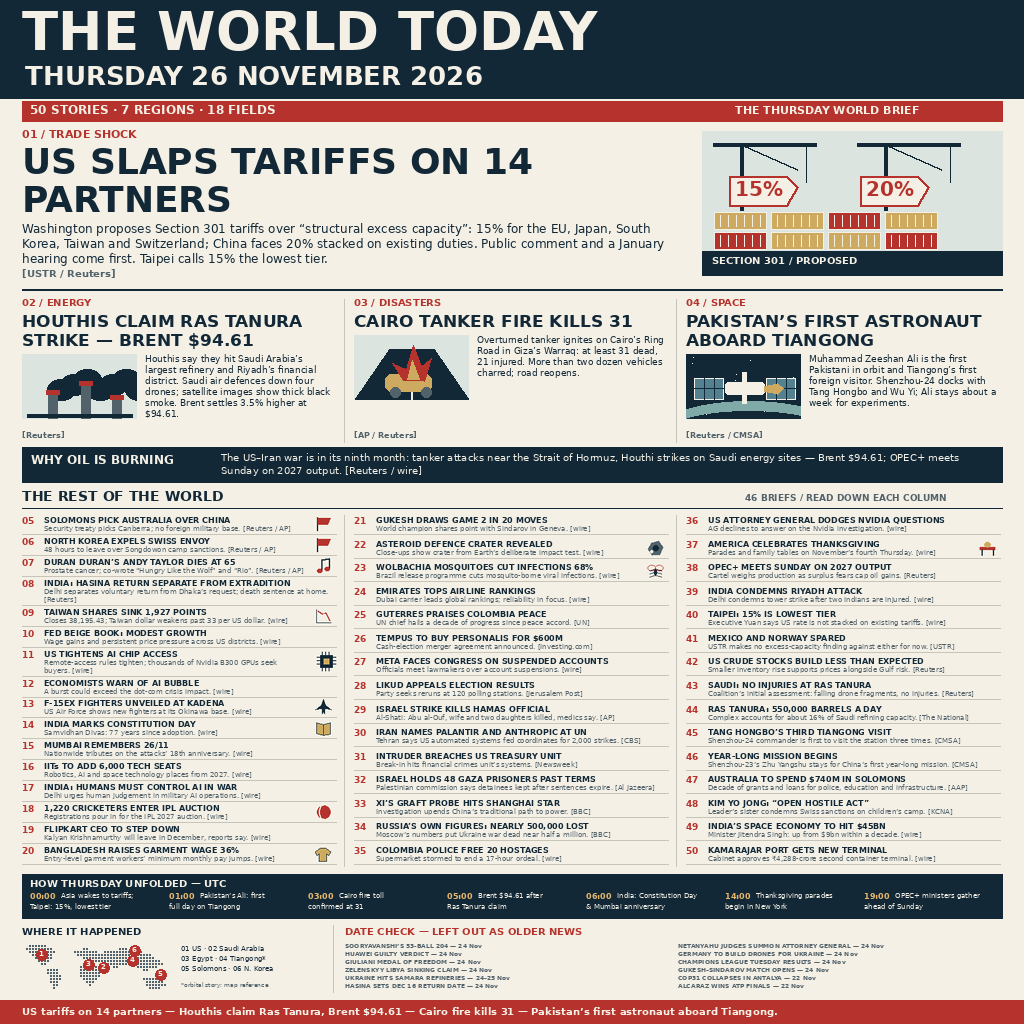
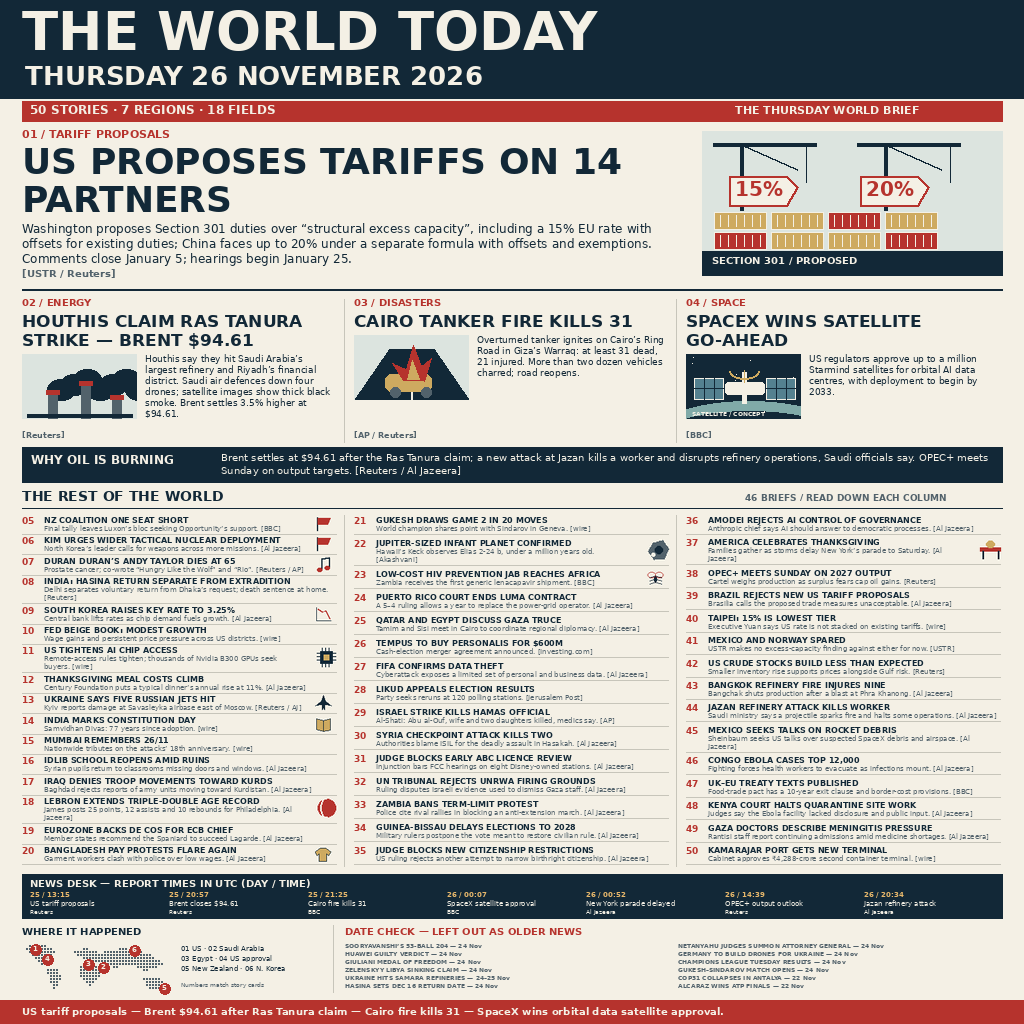
Replace out-of-window news and regenerate verified poster

diff --git a/draw_poster.py b/draw_poster.py
@@ -31,58 +31,58 @@ def font(size, bold=False):
 # Region taxonomy: Americas, Europe, Africa, Middle East, South Asia,
 # East Asia, Oceania. Eighteen editorial fields are assigned explicitly.
 briefs = [
-('SOLOMONS PICK AUSTRALIA OVER CHINA','Security treaty picks Canberra; no foreign military base.','Reuters / AP','Oceania','Diplomacy','flag'),
-('NORTH KOREA EXPELS SWISS ENVOY','48 hours to leave over Songdowon camp sanctions.','Reuters / AP','East Asia','Diplomacy','flag'),
+('NZ COALITION ONE SEAT SHORT','Final tally leaves Luxon’s bloc seeking Opportunity’s support.','BBC','Oceania','Politics','flag'),
+('KIM URGES WIDER TACTICAL NUCLEAR DEPLOYMENT','North Korea’s leader calls for weapons across more missions.','Al Jazeera','East Asia','Defence','flag'),
 ("DURAN DURAN’S ANDY TAYLOR DIES AT 65",'Prostate cancer; co-wrote “Hungry Like the Wolf” and “Rio”.','Reuters / AP','Europe','Culture','music'),
 ('INDIA: HASINA RETURN SEPARATE FROM EXTRADITION','Delhi separates voluntary return from Dhaka’s request; death sentence at home.','Reuters','South Asia','Diplomacy',None),
-('TAIWAN SHARES SINK 1,927 POINTS','Closes 38,195.43; Taiwan dollar weakens past 33 per US dollar.','wire','East Asia','Markets','chart'),
+('SOUTH KOREA RAISES KEY RATE TO 3.25%','Central bank lifts rates as chip demand fuels growth.','Al Jazeera','East Asia','Markets','chart'),
 ('FED BEIGE BOOK: MODEST GROWTH','Wage gains and persistent price pressure across US districts.','wire','Americas','Economy',None),
 ('US TIGHTENS AI CHIP ACCESS','Remote-access rules tighten; thousands of Nvidia B300 GPUs seek buyers.','wire','Americas','Technology','chip'),
-('ECONOMISTS WARN OF AI BUBBLE','A burst could exceed the dot-com crisis impact.','wire','Americas','Economy',None),
-('F-15EX FIGHTERS UNVEILED AT KADENA','US Air Force shows new fighters at its Okinawa base.','wire','East Asia','Defence','plane'),
+('THANKSGIVING MEAL COSTS CLIMB','Century Foundation puts a typical dinner’s annual rise at 11%.','Al Jazeera','Americas','Economy',None),
+('UKRAINE SAYS FIVE RUSSIAN JETS HIT','Kyiv reports damage at Savasleyka airbase east of Moscow.','Reuters / AJ','Europe','Defence','plane'),
 ('INDIA MARKS CONSTITUTION DAY','Samvidhan Divas: 77 years since adoption.','wire','South Asia','Politics','book'),
 ('MUMBAI REMEMBERS 26/11','Nationwide tributes on the attacks’ 18th anniversary.','wire','South Asia','Culture',None),
-('IITs TO ADD 6,000 TECH SEATS','Robotics, AI and space technology places from 2027.','wire','South Asia','Education',None),
-('INDIA: HUMANS MUST CONTROL AI IN WAR','Delhi urges human judgement in military AI operations.','wire','South Asia','Defence',None),
-('1,220 CRICKETERS ENTER IPL AUCTION','Registrations pour in for the IPL 2027 auction.','wire','South Asia','Sport','ball'),
-('FLIPKART CEO TO STEP DOWN','Kalyan Krishnamurthy will leave in December, reports say.','wire','South Asia','Business',None),
-('BANGLADESH RAISES GARMENT WAGE 36%','Entry-level garment workers’ minimum monthly pay jumps.','wire','South Asia','Labour','shirt'),
+('IDLIB SCHOOL REOPENS AMID RUINS','Syrian pupils return to classrooms missing doors and windows.','Al Jazeera','Middle East','Education',None),
+('IRAQ DENIES TROOP MOVEMENTS TOWARD KURDS','Baghdad rejects reports of army units moving toward Kurdistan.','Al Jazeera','Middle East','Defence',None),
+('LEBRON EXTENDS TRIPLE-DOUBLE AGE RECORD','James posts 25 points, 12 assists and 10 rebounds for Philadelphia.','Al Jazeera','Americas','Sport','ball'),
+('EUROZONE BACKS DE COS FOR ECB CHIEF','Member states recommend the Spaniard to succeed Lagarde.','Al Jazeera','Europe','Economy',None),
+('BANGLADESH PAY PROTESTS FLARE AGAIN','Garment workers clash with police over low wages.','Al Jazeera','South Asia','Labour','shirt'),
 ('GUKESH DRAWS GAME 2 IN 20 MOVES','World champion shares point with Sindarov in Geneva.','wire','Europe','Sport',None),
-('ASTEROID DEFENCE CRATER REVEALED','Close-ups show crater from Earth’s deliberate impact test.','wire','Americas','Science','asteroid'),
-('WOLBACHIA MOSQUITOES CUT INFECTIONS 68%','Brazil release programme cuts mosquito-borne viral infections.','wire','Americas','Health','mosquito'),
-('EMIRATES TOPS AIRLINE RANKINGS','Dubai carrier leads global rankings; reliability in focus.','wire','Middle East','Business',None),
-('GUTERRES PRAISES COLOMBIA PEACE','UN chief hails a decade of progress since peace accord.','UN','Americas','Diplomacy',None),
+('JUPITER-SIZED INFANT PLANET CONFIRMED','Hawaii’s Keck observes Elias 2-24 b, under a million years old.','Akashvani','Americas','Science','asteroid'),
+('LOW-COST HIV PREVENTION JAB REACHES AFRICA','Zambia receives the first generic lenacapavir shipment.','BBC','Africa','Health','mosquito'),
+('PUERTO RICO COURT ENDS LUMA CONTRACT','A 5–4 ruling allows a year to replace the power-grid operator.','Al Jazeera','Americas','Business',None),
+('QATAR AND EGYPT DISCUSS GAZA TRUCE','Tamim and Sisi meet in Cairo to coordinate regional diplomacy.','Al Jazeera','Middle East','Diplomacy',None),
 ('TEMPUS TO BUY PERSONALIS FOR $600M','Cash-election merger agreement announced.','Investing.com','Americas','Business',None),
-('META FACES CONGRESS ON SUSPENDED ACCOUNTS','Officials meet lawmakers over account suspensions.','wire','Americas','Technology',None),
+('FIFA CONFIRMS DATA THEFT','Cyberattack exposes a limited set of personal and business data.','Al Jazeera','Europe','Technology',None),
 ('LIKUD APPEALS ELECTION RESULTS','Party seeks reruns at 120 polling stations.','Jerusalem Post','Middle East','Politics',None),
 ('ISRAEL STRIKE KILLS HAMAS OFFICIAL','Al-Shati: Abu al-Ouf, wife and two daughters killed, medics say.','AP','Middle East','Security',None),
-('IRAN NAMES PALANTIR AND ANTHROPIC AT UN','Tehran says US automated systems fed coordinates for 2,000 strikes.','CBS','Middle East','Security',None),
-('INTRUDER BREACHES US TREASURY UNIT','Break-in hits financial crimes unit’s systems.','Newsweek','Americas','Security',None),
-('ISRAEL HOLDS 48 GAZA PRISONERS PAST TERMS','Palestinian commission says detainees kept after sentences expire.','Al Jazeera','Middle East','Security',None),
-('XI’S GRAFT PROBE HITS SHANGHAI STAR','Investigation upends China’s traditional path to power.','BBC','East Asia','Politics',None),
-('RUSSIA’S OWN FIGURES: NEARLY 500,000 LOST','Moscow’s numbers put Ukraine war dead near half a million.','BBC','Europe','Security',None),
-('COLOMBIA POLICE FREE 20 HOSTAGES','Supermarket stormed to end a 17-hour ordeal.','wire','Americas','Security',None),
-('US ATTORNEY GENERAL DODGES NVIDIA QUESTIONS','AG declines to answer on the Nvidia investigation.','wire','Americas','Politics',None),
-('AMERICA CELEBRATES THANKSGIVING','Parades and family tables on November’s fourth Thursday.','wire','Americas','Culture','table'),
+('SYRIA CHECKPOINT ATTACK KILLS TWO','Authorities blame ISIL for the deadly assault in Hasakah.','Al Jazeera','Middle East','Security',None),
+('JUDGE BLOCKS EARLY ABC LICENCE REVIEW','Injunction bars FCC hearings on eight Disney-owned stations.','Al Jazeera','Americas','Politics',None),
+('UN TRIBUNAL REJECTS UNRWA FIRING GROUNDS','Ruling disputes Israeli evidence used to dismiss Gaza staff.','Al Jazeera','Middle East','Security',None),
+('ZAMBIA BANS TERM-LIMIT PROTEST','Police cite rival rallies in blocking an anti-extension march.','Al Jazeera','Africa','Politics',None),
+('GUINEA-BISSAU DELAYS ELECTIONS TO 2028','Military rulers postpone the vote meant to restore civilian rule.','Al Jazeera','Africa','Politics',None),
+('JUDGE BLOCKS NEW CITIZENSHIP RESTRICTIONS','US ruling rejects another attempt to narrow birthright citizenship.','Al Jazeera','Americas','Politics',None),
+('AMODEI REJECTS AI CONTROL OF GOVERNANCE','Anthropic chief says AI should answer to democratic processes.','Al Jazeera','Americas','Technology',None),
+('AMERICA CELEBRATES THANKSGIVING','Families gather as storms delay New York’s parade to Saturday.','Al Jazeera','Americas','Culture','table'),
 ('OPEC+ MEETS SUNDAY ON 2027 OUTPUT','Cartel weighs production as surplus fears cap oil gains.','Reuters','Middle East','Energy',None),
-('INDIA CONDEMNS RIYADH ATTACK','Delhi condemns tower strike after two Indians are injured.','wire','South Asia','Diplomacy',None),
+('BRAZIL REJECTS NEW US TARIFF PROPOSALS','Brasilia calls the proposed trade measures unacceptable.','Al Jazeera','Americas','Trade',None),
 ('TAIPEI: 15% IS LOWEST TIER','Executive Yuan says US rate is not stacked on existing tariffs.','wire','East Asia','Trade',None),
 ('MEXICO AND NORWAY SPARED','USTR makes no excess-capacity finding against either for now.','USTR','Americas','Trade',None),
 ('US CRUDE STOCKS BUILD LESS THAN EXPECTED','Smaller inventory rise supports prices alongside Gulf risk.','Reuters','Americas','Energy',None),
-('SAUDI: NO INJURIES AT RAS TANURA','Coalition’s initial assessment: falling drone fragments, no injuries.','Reuters','Middle East','Energy',None),
-('RAS TANURA: 550,000 BARRELS A DAY','Complex accounts for about 16% of Saudi refining capacity.','The National','Middle East','Energy',None),
-('TANG HONGBO’S THIRD TIANGONG VISIT','Shenzhou-24 commander is first to visit the station three times.','CMSA','East Asia','Space',None),
-('YEAR-LONG MISSION BEGINS','Shenzhou-23’s Zhu Yangshu stays for China’s first year-long mission.','CMSA','East Asia','Space',None),
-('AUSTRALIA TO SPEND $740M IN SOLOMONS','Decade of grants and loans for police, education and infrastructure.','AAP','Oceania','Diplomacy',None),
-('KIM YO JONG: “OPEN HOSTILE ACT”','Leader’s sister condemns Swiss sanctions on children’s camp.','KCNA','East Asia','Diplomacy',None),
-('INDIA’S SPACE ECONOMY TO HIT $45BN','Minister Jitendra Singh: up from $9bn within a decade.','wire','South Asia','Space',None),
+('BANGKOK REFINERY FIRE INJURES NINE','Bangchak shuts production after a blast at Phra Khanong.','Al Jazeera','East Asia','Energy',None),
+('JAZAN REFINERY ATTACK KILLS WORKER','Saudi ministry says a projectile sparks fire and halts some operations.','Al Jazeera','Middle East','Energy',None),
+('MEXICO SEEKS TALKS ON ROCKET DEBRIS','Sheinbaum seeks US talks over suspected SpaceX debris and airspace.','Al Jazeera','Americas','Space',None),
+('CONGO EBOLA CASES TOP 12,000','Fighting forces health workers to evacuate as infections mount.','Al Jazeera','Africa','Health',None),
+('UK–EU TREATY TEXTS PUBLISHED','Food-trade pact has a 10-year exit clause and border-cost provisions.','BBC','Europe','Diplomacy',None),
+('KENYA COURT HALTS QUARANTINE SITE WORK','Judges say the Ebola facility lacked disclosure and public input.','Al Jazeera','Africa','Politics',None),
+('GAZA DOCTORS DESCRIBE MENINGITIS PRESSURE','Rantisi staff report continuing admissions amid medicine shortages.','Al Jazeera','Middle East','Health',None),
 ('KAMARAJAR PORT GETS NEW TERMINAL','Cabinet approves ₹4,288-crore second container terminal.','wire','South Asia','Business',None),
 ]
 leads = [
-('US SLAPS TARIFFS ON 14 PARTNERS','Washington proposes Section 301 tariffs over “structural excess capacity”: 15% for the EU, Japan, South Korea, Taiwan and Switzerland; China faces 20% stacked on existing duties. Public comment and a January hearing come first. Taipei calls 15% the lowest tier.','USTR / Reuters','Americas','Trade'),
+('US PROPOSES TARIFFS ON 14 PARTNERS','Washington proposes Section 301 duties over “structural excess capacity”, including a 15% EU rate with offsets for existing duties; China faces up to 20% under a separate formula with offsets and exemptions. Comments close January 5; hearings begin January 25.','USTR / Reuters','Americas','Trade'),
 ('HOUTHIS CLAIM RAS TANURA STRIKE — BRENT $94.61','Houthis say they hit Saudi Arabia’s largest refinery and Riyadh’s financial district. Saudi air defences down four drones; satellite images show thick black smoke. Brent settles 3.5% higher at $94.61.','Reuters','Middle East','Energy'),
 ('CAIRO TANKER FIRE KILLS 31','Overturned tanker ignites on Cairo’s Ring Road in Giza’s Warraq: at least 31 dead, 21 injured. More than two dozen vehicles charred; road reopens.','AP / Reuters','Africa','Disasters'),
-('PAKISTAN’S FIRST ASTRONAUT ABOARD TIANGONG','Muhammad Zeeshan Ali is the first Pakistani in orbit and Tiangong’s first foreign visitor. Shenzhou-24 docks with Tang Hongbo and Wu Yi; Ali stays about a week for experiments.','Reuters / CMSA','East Asia','Space'),
+('SPACEX WINS SATELLITE GO-AHEAD','US regulators approve up to a million Starmind satellites for orbital AI data centres, with deployment to begin by 2033.','BBC','Americas','Space'),
 ]
 assert len(briefs) == 46 and len(leads) + len(briefs) == 50
 regions = {s[3] for s in briefs + leads}
@@ -209,7 +209,7 @@ def fire(x,y,w,h):
     d.polygon([(x+49,y+45),(x+38,y+28),(x+52,y+34),(x+59,y+10),(x+67,y+31),(x+77,y+23),(x+70,y+46)],fill=RED)
     d.polygon([(x+53,y+44),(x+58,y+25),(x+65,y+44)],fill=GOLD)
 
-def station(x,y,w,h):
+def satellite(x,y,w,h):
     d.rectangle((x,y,x+w,y+h),fill=INK)
     for i in range(12):
         xx=x+((i*43+7)%w)
@@ -223,7 +223,9 @@ def station(x,y,w,h):
         line(xx,y+34,xx+29,y+34,INK)
     d.rounded_rectangle((x+39,y+28,x+78,y+40),3,fill=PAPER)
     line(x+58,y+18,x+58,y+49,PAPER,5)
-    d.polygon([(x+78,y+32),(x+91,y+29),(x+97,y+34),(x+91,y+40),(x+78,y+37)],fill=GOLD)
+    d.arc((x+43,y+8,x+73,y+25),0,180,fill=GOLD,width=2)
+    line(x+58,y+16,x+58,y+28,GOLD)
+    text(x+6,y+h-9,'SATELLITE / CONCEPT',6,True,PAPER)
 
 def bounded_art(painter, x, y, w, h, scale=None):
     global d
@@ -244,7 +246,7 @@ d.rectangle((22,101,1002,121),fill=RED)
 text(30,102,f'50 STORIES · {len(regions)} REGIONS · {len(fields)} FIELDS',12,True,PAPER)
 text(735,103,'THE THURSDAY WORLD BRIEF',11,True,PAPER)
 
-text(22,127,'01 / TRADE SHOCK',11,True,RED)
+text(22,127,'01 / TARIFF PROPOSALS',11,True,RED)
 paragraph(22,140,leads[0][0],36,654,True,leading=38)
 y=paragraph(22,221,leads[0][1],12,654,leading=15)
 text(22,y+1,'[USTR / Reuters]',10,True,MUTED)
@@ -252,7 +254,7 @@ port(702,131,300,144)
 line(22,289,1002,289,INK,2)
 
 # Three equal-width lead cards with compact silhouettes.
-for idx,(xx,art) in enumerate(((22,refinery),(354,fire),(686,station)),1):
+for idx,(xx,art) in enumerate(((22,refinery),(354,fire),(686,satellite)),1):
     s=leads[idx]
     text(xx,296,f'0{idx+1} / '+s[4].upper(),10,True,RED)
     end=paragraph(xx,311,s[0],17,313,True,leading=19)
@@ -265,7 +267,7 @@ for idx,(xx,art) in enumerate(((22,refinery),(354,fire),(686,station)),1):
 # Context band; it is explicitly outside the numbered story sequence.
 d.rectangle((22,447,1002,482),fill=INK)
 text(31,452,'WHY OIL IS BURNING',12,True,PAPER)
-paragraph(221,451,'The US–Iran war is in its ninth month: tanker attacks near the Strait of Hormuz, Houthi strikes on Saudi energy sites — Brent $94.61; OPEC+ meets Sunday on 2027 output. [Reuters / wire]',10,770,fill=PAPER,leading=13)
+paragraph(221,451,'Brent settles at $94.61 after the Ras Tanura claim; a new attack at Jazan kills a worker and disrupts refinery operations, Saudi officials say. OPEC+ meets Sunday on output targets. [Reuters / Al Jazeera]',10,770,fill=PAPER,leading=13)
 text(22,488,'THE REST OF THE WORLD',14,True,INK)
 text(745,492,'46 BRIEFS / READ DOWN EACH COLUMN',9,True,MUTED)
 line(22,508,1002,508,INK)
@@ -312,15 +314,15 @@ for xx in (344,676):
     line(xx,515,xx,866)
 assert max_bottom <= 866
 
-# Seven-point UTC desk timeline.
+# Seven timestamped reports; these are publication times, not event times.
 d.rectangle((22,874,1002,918),fill=INK)
-text(30,877,'HOW THURSDAY UNFOLDED — UTC',10,True,PAPER)
-timeline=[('00:00','Asia wakes to tariffs;','Taipei: 15%, lowest tier'),('01:00','Pakistan’s Ali: first','full day on Tiangong'),('03:00','Cairo fire toll','confirmed at 31'),('05:00','Brent $94.61 after','Ras Tanura claim'),('06:00','India: Constitution Day','& Mumbai anniversary'),('14:00','Thanksgiving parades','begin in New York'),('19:00','OPEC+ ministers gather','ahead of Sunday')]
+text(30,877,'NEWS DESK — REPORT TIMES IN UTC (DAY / TIME)',10,True,PAPER)
+timeline=[('25 / 13:15','US tariff proposals','Reuters'),('25 / 20:57','Brent closes $94.61','Reuters'),('25 / 21:25','Cairo fire kills 31','BBC'),('26 / 00:07','SpaceX satellite approval','BBC'),('26 / 00:52','New York parade delayed','Al Jazeera'),('26 / 14:39','OPEC+ output outlook','Reuters'),('26 / 20:34','Jazan refinery attack','Al Jazeera')]
 for i,(t,a,b) in enumerate(timeline):
     xx=30+i*139
-    text(xx,891,t,8,True,'#e6b76b')
-    text(xx+31,891,a,7,False,PAPER)
-    text(xx,902,b,7,False,PAPER)
+    text(xx,890,t,7,True,'#e6b76b')
+    text(xx,899,a,7,False,PAPER)
+    text(xx,908,b,6,False,PAPER)
 
 # Dotted map with numbered references to the actual numbered story cards.
 text(22,925,'WHERE IT HAPPENED',10,True)
@@ -337,13 +339,13 @@ for xx in range(0,147,3):
     for yy in range(0,49,3):
         if any(inside(xx,yy,p) for p in polys):
             d.ellipse((mapx+xx,mapy+yy,mapx+xx+1,mapy+yy+1),fill=MUTED)
-for px,py,num in [(18,12,'1'),(80,25,'2'),(65,22,'3'),(109,18,'4'),(137,32,'5'),(111,8,'6')]:
+for px,py,num in [(12,7,'1'),(80,25,'2'),(65,22,'3'),(24,17,'4'),(141,46,'5'),(111,8,'6')]:
     d.ellipse((mapx+px-5,mapy+py-5,mapx+px+6,mapy+py+6),fill=RED)
     text(mapx+px-2,mapy+py-5,num,7,True,PAPER)
 text(181,944,'01 US · 02 Saudi Arabia',7)
-text(181,954,'03 Egypt · 04 Tiangong*',7)
-text(181,964,'05 Solomons · 06 N. Korea',7)
-text(181,981,'*orbital story; map reference',6,False,MUTED)
+text(181,954,'03 Egypt · 04 US approval',7)
+text(181,964,'05 New Zealand · 06 N. Korea',7)
+text(181,981,'Numbers match story cards',6,False,MUTED)
 
 # All excluded-news dates are confined to this panel.
 line(333,925,333,992)
@@ -368,7 +370,7 @@ for i,item in enumerate(excluded):
     assert d.textlength(item,font=font(6,True))<=324,item
     text(xx,yy,item,6,True,MUTED)
 d.rectangle((0,1000,1024,1024),fill=RED)
-footer='US tariffs on 14 partners — Houthis claim Ras Tanura, Brent $94.61 — Cairo fire kills 31 — Pakistan’s first astronaut aboard Tiangong.'
+footer='US tariff proposals — Brent $94.61 after Ras Tanura claim — Cairo fire kills 31 — SpaceX wins orbital data satellite approval.'
 assert d.textlength(footer,font=font(10,True))<980
 text(22,1005,footer,10,True,PAPER)
 im.save(ROOT/'entry.png', optimize=True)
